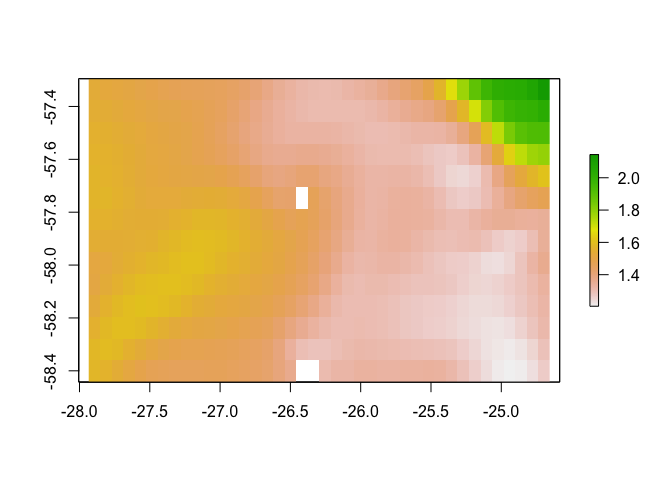
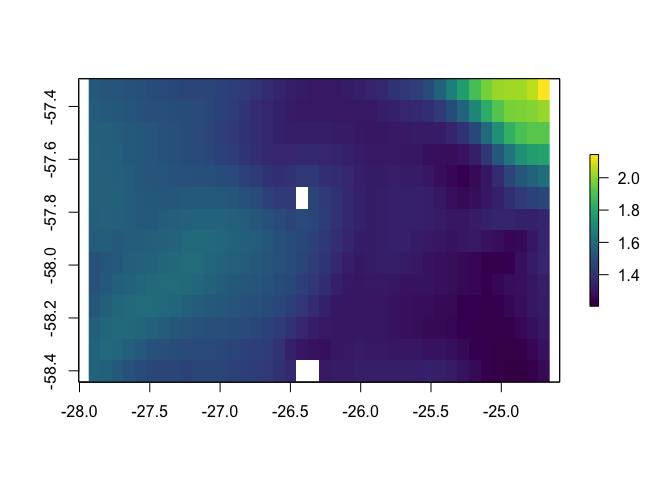
Added code to predict around all islands at once

diff --git a/6_Predictions.md b/6_Predictions.md
@@ -66,7 +66,7 @@ SSI_polygons.df %>%
 
 ![](6_Predictions_files/figure-gfm/unnamed-chunk-3-1.png)<!-- -->
 
-### 1\. Predict around Saunders to check that the distribution looks ok
+## 1\. Predict around Saunders to check that the distribution looks ok
 
 This just creates a raster across the study area using the bathymetry
 raster cropped to the right extent.
@@ -121,7 +121,7 @@ mask <- mask(x, SSI_WGS84, inverse=F)
 # plot(mask, xlim = c(-26.6, -26.2), ylim = c(-57.9, -57.7), col=viridis(100))
 ```
 
-Make a raster for the distance from colony for Saunders.
+### Make a raster for the distance from colony for Saunders
 
 ``` r
 colony_lat<- -57.808 
@@ -151,6 +151,8 @@ plot(dist, xlim = c(-26.6, -26.2), ylim = c(-57.9, -57.7), col=viridis(100))
 ```
 
 ![](6_Predictions_files/figure-gfm/unnamed-chunk-6-2.png)<!-- -->
+
+### SST raster
 
 Get the sea surface temperature data that I downloaded previously.
 
@@ -192,10 +194,11 @@ raster::plot(wMeanSST, xlim = c(-27.96598, -24.623), ylim = c(-58.41806, -57.287
 
 ![](6_Predictions_files/figure-gfm/unnamed-chunk-7-1.png)<!-- -->
 
-Make a new raster with a 1km x 1km resolution and use this to sample the
-distance and SST rasters. The values for the max and min long/lat are
-from converting the depth raster to LAEA after cropping it to the study
-area extent
+### Make a 1km x 1km grid
+
+Use this to sample the distance and SST rasters. The values for the max
+and min long/lat are from converting the depth raster to LAEA after
+cropping it to the study area extent
 (above).
 
 ``` r
@@ -219,8 +222,7 @@ Saunders_1KmPoints$SST <- raster::extract(wMeanSST, Saunders_1KmPoints)
 Saunders_1KmPoints$colonydist <- raster::extract(dist, Saunders_1KmPoints)
 ```
 
-Make
-predictions.
+### Make predictions for Saunders
 
 ``` r
 Saunders_1KmPoints$GAM_pred <- as.numeric(predict(GAM, type="response", newdata = Saunders_1KmPoints))
@@ -279,14 +281,14 @@ a much smoother distribution.
 
 ``` r
 # plot the orignal data
-plot(wMeanSST, xlim = c(-27.96598, -24.623), ylim = c(-58.41806, -57.28708))
+plot(wMeanSST, xlim = c(-27.96598, -24.623), ylim = c(-58.41806, -57.28708), col=viridis(100))
 ```
 
 ![](6_Predictions_files/figure-gfm/unnamed-chunk-11-1.png)<!-- -->
 
 ``` r
 # plot the interpolated data
-resample(x = wMeanSST, y = dist, method = 'bilinear') %>% plot(xlim = c(-27.96598, -24.623), ylim = c(-58.41806, -57.28708))
+resample(x = wMeanSST, y = dist, method = 'bilinear') %>% plot(xlim = c(-27.96598, -24.623), ylim = c(-58.41806, -57.28708), col=viridis(100))
 ```
 
 ![](6_Predictions_files/figure-gfm/unnamed-chunk-11-2.png)<!-- -->
@@ -359,7 +361,9 @@ ggplot() +
 
 ![](6_Predictions_files/figure-gfm/unnamed-chunk-13-1.png)<!-- -->
 
-### 2\. Zavodovski
+The actual distribution is pretty close to the predicted distribution.
+
+## 2\. Predict around all colonies
 
 Make raster for entire chain of islands using the bathymetry raster as a
 starting point.
@@ -411,7 +415,7 @@ plot(x, col=viridis(100))
 
 ![](6_Predictions_files/figure-gfm/unnamed-chunk-14-2.png)<!-- -->
 
-Make a raster of the distances from colonies on Zavodovski.
+### Make a raster of the distances from a colony on Zavodovski
 
 ``` r
 Zav1_lat<- -56.291598
@@ -431,7 +435,7 @@ plot(dist, col=viridis(100))
 
 ![](6_Predictions_files/figure-gfm/unnamed-chunk-15-1.png)<!-- -->
 
-Add a second colony on Thule.
+### Add a second colony on Thule
 
 ``` r
 Thule1_lat <- -59.464498
@@ -449,32 +453,130 @@ dist <- gridDistance(x, origin=2, omit=NA)
 plot(dist, col=viridis(100))
 ```
 
-![](6_Predictions_files/figure-gfm/unnamed-chunk-16-1.png)<!-- --> So I
-can calculate the distance from more than one colony at once.
+![](6_Predictions_files/figure-gfm/unnamed-chunk-16-1.png)<!-- -->
 
-Read in colony locations on
-    Zavodovski
+So I can calculate the distance from more than one colony at once.
+
+### Read in all colony locations and calculate distance raster
 
 ``` r
 colonies <- read.csv("Colony_LatLons.csv", header = TRUE)
-```
-
-    ## Warning in read.table(file = file, header = header, sep = sep, quote = quote, :
-    ## incomplete final line found by readTableHeader on 'Colony_LatLons.csv'
-
-``` r
 coordinates(colonies) <- ~Long+Lat
 
 j <- cellFromXY(x, colonies)
 x[j] <- 2 
 
-# Create a distance raster from the colony
+# Create a distance raster from all colonies
 dist <- gridDistance(x, origin=2, omit=NA)
-plot(dist, col=viridis(100), xlim = c(-27.7, -27.4), ylim = c(-56.4, -56.2))
+plot(dist, col = viridis(100))
 ```
 
 ![](6_Predictions_files/figure-gfm/unnamed-chunk-17-1.png)<!-- -->
 
-That looks like it working fine. There isn’t a jumping in point in the
-northeast of the island as far we know, and the distance raster reflects
-this.
+That seems to work.
+
+Zoom in on
+Zav.
+
+``` r
+plot(dist, col=viridis(100), xlim = c(-27.7, -27.4), ylim = c(-56.4, -56.2))
+```
+
+![](6_Predictions_files/figure-gfm/unnamed-chunk-18-1.png)<!-- -->
+
+Looks good. There is no jumping in point for the chinstraps in the
+northeast (as far as we know) and that is reflected in the distance
+raster.
+
+### SST
+
+This is the SST temperature from above, plotted for the whole study area
+after interpolating it.
+
+``` r
+raster::plot(wMeanSST_resampled, col=viridis(100))
+```
+
+![](6_Predictions_files/figure-gfm/unnamed-chunk-19-1.png)<!-- -->
+
+### Make a grid with a 1x1km resolution to sample the raster layers
+
+First I need to find the extent of the entire island change when it’s in
+LAEA
+projection.
+
+``` r
+projectRaster(wMeanSST_resampled, crs = CRS("+proj=laea +lon_0=-26 +lat_0=-58 +units=m"))
+```
+
+    ## class      : RasterLayer 
+    ## dimensions : 648, 997, 646056  (nrow, ncol, ncell)
+    ## resolution : 204, 200  (x, y)
+    ## extent     : -119511.7, 83876.27, -49280.75, 80319.25  (xmin, xmax, ymin, ymax)
+    ## crs        : +proj=laea +lon_0=-26 +lat_0=-58 +units=m +ellps=WGS84 
+    ## source     : memory
+    ## names      : layer 
+    ## values     : 1.202468, 2.282788  (min, max)
+
+``` r
+long <- seq(-250405.5 , 63432.49, 1000) #first minimum longitude in m, then max, 1000 is 1km
+# head(long)
+lat <- seq(-230376.3, 223623.7, 1000)
+# head(lat)
+All_1KmPoints <- expand.grid(long,lat)
+names(All_1KmPoints) <- c("Lon","Lat")
+# make it spatial
+coordinates(All_1KmPoints) <- ~Lon+Lat
+proj4string(All_1KmPoints) <- CRS("+proj=laea +lon_0=-26 +lat_0=-58 +units=m")
+
+
+# change it back to wgs84 to extract the environmental data (those layers are WGS84)
+All_1KmPoints <- spTransform(All_1KmPoints, CRS = proj4string(dist))
+
+
+# sample the distance and SST layers
+All_1KmPoints$SST <- raster::extract(wMeanSST_resampled, All_1KmPoints)
+All_1KmPoints$colonydist <- raster::extract(dist, All_1KmPoints)
+```
+
+### Make predictions for all colonies
+
+``` r
+All_1KmPoints$GAM_pred <- as.numeric(predict(GAM, type="response", newdata = All_1KmPoints))
+```
+
+Make a new raster with the correct resolution and extent of the 1km
+grid, then use it to convert `All_1KmPoints` into a raster for plotting.
+
+``` r
+# new raster in LAEA
+r <- raster(ncols = 313, nrows = 454, crs = CRS("+proj=laea +lon_0=-26 +lat_0=-58 +units=m")) 
+# define the extent of the raster
+extent(r) <- c(-250405.5 , 63432.49, -230376.3, 223623.7  )
+# change points into LAEA as well
+All_1KmPoints <- spTransform(All_1KmPoints, CRS = "+proj=laea +lon_0=-26 +lat_0=-58 +units=m")
+# rasterize the predicted values
+r3 <- rasterize(All_1KmPoints, r, 'GAM_pred', fun=mean)
+# project back to WGS84 for plotting
+r3 <- projectRaster(from = r3, to = dist)
+#plot(r3, col=viridis(100))
+
+
+# convert to a df for plotting in two steps,
+# First, to a SpatialPointsDataFrame
+r3_pts <- rasterToPoints(r3, spatial = TRUE)
+# Then to a 'conventional' dataframe
+r3_df  <- data.frame(r3_pts)
+rm(r3_pts)
+
+ggplot() +
+  geom_raster(data = r3_df , aes(x = x, y = y, fill = layer)) + 
+  scale_fill_viridis() +
+  geom_polygon(data = SSI_polygons.df, aes(x = long, y = lat, group = group), fill = "white") +
+  ggtitle("Predicted distribution around all islands") +
+  coord_fixed(ratio = 1)
+```
+
+![](6_Predictions_files/figure-gfm/unnamed-chunk-23-1.png)<!-- -->
+
+Is it ok to predict from all colonies at once like this?
